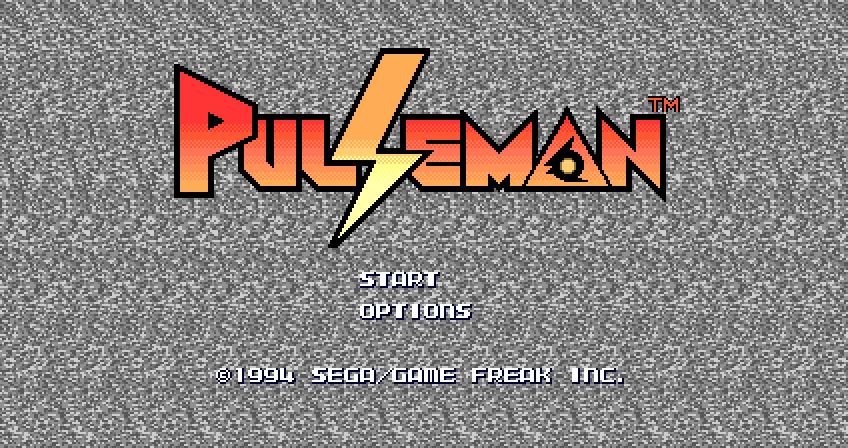
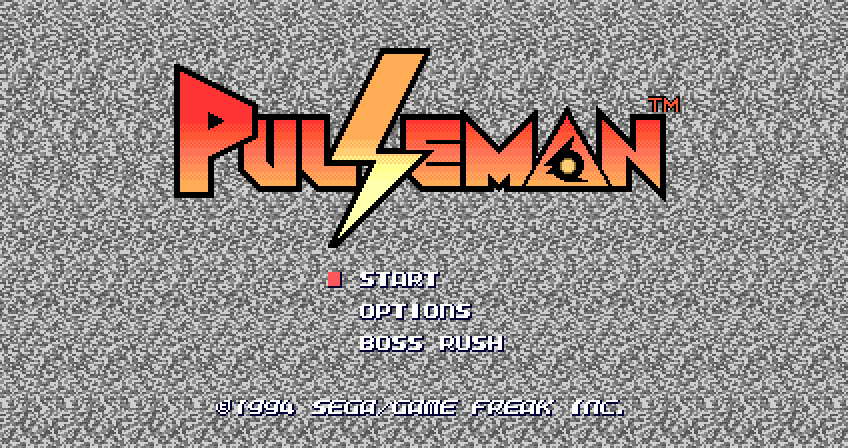
Boss Rush: resultado em tela preta; Esc no continue; README com as novidades
- Boss Rush: o resultado fica numa tela preta só dele, com o título montado por baixo e o
  contador de espera do título parado (a abertura não começa por baixo)
- No continue ($18), Esc/Back não abrem o menu do PC
- Noticiário depois da fase 1 (cena $24) em 4:3 com a moldura: no widescreen o mapa de uma
  tela se repetia nas laterais
- Teste de controle: PM_GAMEPAD_TEST="ms=botão;..." com sequência própria
- README: tradução, abertura, Boss Rush e controles, com capturas novas
- Instalador 1.4.1

diff --git a/runtime/bossrush.c b/runtime/bossrush.c
@@ -216,6 +216,12 @@ void bossrush_frame(void)
         if (scene_now() == SCENE_STAGE && !paused)
             frames++;
     }
+    if (state == BR_RESULT && scene_now() == SCENE_TITLE && (work_ram[0xF802] & 0x80)) {
+        /* o título conta $FFF804 até chamar a abertura: parado enquanto o resultado está na
+         * tela (senão a abertura começava por baixo da tela preta) */
+        work_ram[0xF804] = 0x02;
+        work_ram[0xF805] = 0x58;
+    }
     if (state != BR_OFF || !title_ready())
         return;
     /* item BOSS RUSH na linha 21, com a fonte e os atributos do 'S' de START (linha 17) */
@@ -324,31 +330,32 @@ void bossrush_draw(uint32_t (*fb)[SCREEN_W_MAX], int width, int extra)
         text_center(fb, width, cx, 4, b, 0xFFFFFFFFu);
         return;
     }
-    /* o painel só aparece com o título já montado (antes ainda passa o fim da fase) */
-    if (state == BR_RESULT && scene == SCENE_TITLE && result_frames >= 40) {
-        int w = 200, h = 60, x0 = cx - w / 2, y0 = 118;   /* por cima dos itens do título */
-        for (int y = y0; y < y0 + h; y++)   /* painel sólido com borda (cobre os itens) */
-            for (int x = x0; x < x0 + w; x++)
-                if (x >= 0 && x < width) {
-                    int edge = y == y0 || y == y0 + h - 1 || x == x0 || x == x0 + w - 1;
-                    fb[y][x] = edge ? 0xFF4FB8E0u : 0xFF0C1020u;
-                }
+    if (state == BR_RESULT && scene == SCENE_TITLE) {
+        /* tela preta só para o resultado: o título se monta por baixo e aparece quando ela
+         * some (botão ou 10 s); o texto entra depois do fim da fase escurecer */
+        for (int y = 0; y < SCREEN_H; y++)
+            for (int x = 0; x < width; x++)
+                fb[y][x] = 0xFF000000u;
+        if (result_frames < 40)
+            return;
+        int y0 = 76;
+        text_center(fb, width, cx, y0, "BOSS RUSH", 0xFFB4BECEu);
         format_time(frames, t, sizeof(t));
         if (won) {
-            text_center(fb, width, cx, y0 + 6, T("BOSS RUSH COMPLETO!", "BOSS RUSH CLEARED!", "¡BOSS RUSH COMPLETADO!"), 0xFFFFD84Fu);
+            text_center(fb, width, cx, y0 + 20, T("COMPLETO!", "CLEARED!", "¡COMPLETADO!"), 0xFFFFD84Fu);
             snprintf(b, sizeof(b), "%s %s", T("TEMPO", "TIME", "TIEMPO"), t);
-            text_center(fb, width, cx, y0 + 22, b, 0xFFFFFFFFu);
+            text_center(fb, width, cx, y0 + 40, b, 0xFFFFFFFFu);
         } else {
-            text_center(fb, width, cx, y0 + 6, "GAME OVER", 0xFFFF6A6Au);
+            text_center(fb, width, cx, y0 + 20, "GAME OVER", 0xFFFF6A6Au);
             snprintf(b, sizeof(b), "%s %d/%d  %s", T("CHEFE", "BOSS", "JEFE"), idx + 1, N_BOSSES, t);
-            text_center(fb, width, cx, y0 + 22, b, 0xFFFFFFFFu);
+            text_center(fb, width, cx, y0 + 40, b, 0xFFFFFFFFu);
         }
         if (new_record) {
-            text_center(fb, width, cx, y0 + 38, T("NOVO RECORDE!", "NEW RECORD!", "¡NUEVO RÉCORD!"), 0xFF4FD8FFu);
+            text_center(fb, width, cx, y0 + 60, T("NOVO RECORDE!", "NEW RECORD!", "¡NUEVO RÉCORD!"), 0xFF4FD8FFu);
         } else if (settings.boss_best) {
             format_time(settings.boss_best, t, sizeof(t));
             snprintf(b, sizeof(b), "%s %s", T("RECORDE", "RECORD", "RÉCORD"), t);
-            text_center(fb, width, cx, y0 + 38, b, 0xFFB4BECEu);
+            text_center(fb, width, cx, y0 + 60, b, 0xFFB4BECEu);
         }
         return;
     }

diff --git a/runtime/gamepad.c b/runtime/gamepad.c
@@ -7,6 +7,7 @@
  * também vale A. Start = Start; Back (Select/Share/-) e Guide abrem o menu do PC, como o Esc.
  * Teclado e controle funcionam juntos. */
 #include <stdio.h>
+#include <string.h>
 
 #include "gamepad.h"
 #include "runtime.h"
@@ -162,7 +163,8 @@ void gamepad_test_tick(void)
     }
     if (!init || !joy)
         return;
-    static const struct { Uint32 ms; int button; const char *name; } steps[] = {
+    typedef struct { Uint32 ms; int button; const char *name; } Step;
+    static const Step fixed[] = {
         {4000, SDL_CONTROLLER_BUTTON_A, "A (logos: não faz nada)"},
         {17000, SDL_CONTROLLER_BUTTON_DPAD_DOWN, "baixo (título: OPTIONS)"},
         {18000, SDL_CONTROLLER_BUTTON_DPAD_UP, "cima (título: START)"},
@@ -174,8 +176,40 @@ void gamepad_test_tick(void)
         {44000, SDL_CONTROLLER_BUTTON_BACK, "Back (menu do PC)"},
         {46000, SDL_CONTROLLER_BUTTON_B, "B (fecha o menu)"},
     };
+    /* PM_GAMEPAD_TEST="ms=botão;..." (start, a, b, x, y, back, cima, baixo, esq, dir) troca a
+     * sequência fixa */
+    static Step custom[16];
+    static int n_custom = -1;
+    if (n_custom < 0) {
+        n_custom = 0;
+        static const struct { const char *name; int button; } names[] = {
+            {"start", SDL_CONTROLLER_BUTTON_START}, {"a", SDL_CONTROLLER_BUTTON_A},
+            {"b", SDL_CONTROLLER_BUTTON_B}, {"x", SDL_CONTROLLER_BUTTON_X},
+            {"y", SDL_CONTROLLER_BUTTON_Y}, {"back", SDL_CONTROLLER_BUTTON_BACK},
+            {"cima", SDL_CONTROLLER_BUTTON_DPAD_UP}, {"baixo", SDL_CONTROLLER_BUTTON_DPAD_DOWN},
+            {"esq", SDL_CONTROLLER_BUTTON_DPAD_LEFT}, {"dir", SDL_CONTROLLER_BUTTON_DPAD_RIGHT},
+        };
+        const char *p = SDL_getenv("PM_GAMEPAD_TEST");
+        while (p && *p && n_custom < 16) {
+            unsigned ms;
+            char name[16];
+            if (sscanf(p, "%u=%15[a-z]", &ms, name) == 2)
+                for (size_t k = 0; k < sizeof(names) / sizeof(names[0]); k++)
+                    if (!strcmp(name, names[k].name)) {
+                        custom[n_custom].ms = ms;
+                        custom[n_custom].button = names[k].button;
+                        custom[n_custom].name = names[k].name;
+                        n_custom++;
+                    }
+            p = strchr(p, ';');
+            if (p)
+                p++;
+        }
+    }
+    const Step *steps = n_custom ? custom : fixed;
+    size_t n_steps = n_custom ? (size_t)n_custom : sizeof(fixed) / sizeof(fixed[0]);
     Uint32 now = SDL_GetTicks();
-    for (size_t i = 0; i < sizeof(steps) / sizeof(steps[0]); i++) {
+    for (size_t i = 0; i < n_steps; i++) {
         int down = now >= steps[i].ms && now < steps[i].ms + 150;
         static int was[16];
         if (down != was[i]) {

diff --git a/runtime/main.c b/runtime/main.c
@@ -62,10 +62,11 @@ static void update_widescreen_for_scene(void)
      * continua na tela larga toda. */
     if (scene == 0x00 && !force_wide)
         wide_clip_planes = 1;
-    /* cutscenes: a abertura da fase (cena $28, o símbolo do vilão e as setas que entram
-     * pelas bordas) e o noticiário com a jornalista ($30) são montadas para 320 px; ficam
-     * no formato original, com faixas pretas */
-    wide_pillarbox = (scene == 0x28 || scene == 0x30) && !force_wide;
+    /* cutscenes: o noticiário depois da fase 1 ($24, um mapa de uma tela que se repete nas
+     * laterais), a abertura da fase ($28, o símbolo do vilão e as setas que entram pelas
+     * bordas) e o noticiário do final ($30) são montadas para 320 px; ficam no formato
+     * original, com a moldura */
+    wide_pillarbox = (scene == 0x24 || scene == 0x28 || scene == 0x30) && !force_wide;
     map_stream_extra = stage ? 4 : 0;     /* carrega 64 px a mais de mapa de cada lado */
     hud_shift = stage ? 52 : 0;           /* energia/vidas: 16 px da borda esquerda */
     hud_shift_right = stage ? 84 : 0;     /* pontuação: 16 px da borda direita */
@@ -685,7 +686,8 @@ int main(int argc, char **argv)
                         continue;
                     }
                     if (!menu_is_open()) {
-                        if (key == SDLK_ESCAPE && !repeat) {
+                        /* no continue ($18) o Esc/Back não abre o menu do PC */
+                        if (key == SDLK_ESCAPE && !repeat && (work_ram[0xF803] & 0x7C) != 0x18) {
                             if (game_in_stage() && !game_paused()) {
                                 inject_start = 5;   /* pausa o jogo; o menu abre junto com a pausa */
                             } else {

diff --git a/README.md b/README.md
@@ -6,7 +6,7 @@
 
 <p align="center">
   <b>O clássico de 1994 da Game Freak — a mesma equipe de Pokémon — rodando nativo no Windows.</b><br>
-  Widescreen, 60 fps sem lentidão, 3 arquivos de save, filtros de TV e menus em português, inglês e espanhol.
+  Widescreen, 60 fps sem lentidão, jogo traduzido, Boss Rush, suporte a controles, 3 arquivos de save e filtros de TV.
 </p>
 
 <p align="center">
@@ -49,6 +49,17 @@
 A área central fica idêntica ao jogo original, pixel a pixel; as colunas extras são carregadas
 do próprio mapa do jogo. O modo original continua disponível no menu.
 </details>
+
+### Novidades
+
+| | |
+|:---:|:---:|
+| <img src="docs/images/news_pt.png" alt="Noticiário traduzido" width="420"> | <img src="docs/images/story_pt.png" alt="História da abertura traduzida" width="420"> |
+| As legendas em japonês traduzidas, e as telas em 4:3 com a própria cena desfocada nas laterais | A história da abertura, agora em destaque (Start nas telas de logo) |
+| <img src="docs/images/title_bossrush.png" alt="Boss Rush na tela de título" width="420"> | <img src="docs/images/bossrush_fight.png" alt="Luta do Boss Rush com cronômetro" width="420"> |
+| Boss Rush na tela de título | Os 7 chefes em sequência, com uma vida só e cronômetro |
+| <img src="docs/images/select_pt.png" alt="Seleção de fases traduzida" width="420"> | <img src="docs/images/ending_frame.png" alt="Noticiário do final com moldura" width="420"> |
+| A seleção de fases traduzida | O noticiário do final, em 4:3 com a moldura |
 
 ### Menus feitos para esta versão
 
@@ -98,9 +109,10 @@ O instalador não pede administrador (instala em `%LOCALAPPDATA%\Programs\Pulsem
 | 📺 **Filtros** | Nítido, suave, pixel suave, scanlines, TV e TV curva. |
 | 🖼 **Moldura** | Telas em 4:3 (o modo original, o noticiário, o mapa-múndi...) ganham laterais com a própria cena desfocada, ou faixas pretas. |
 | 🧩 **Sprites sem limite** | Menos sprites piscando quando há muitos na mesma linha (opcional). |
-| 🎬 **Abertura em destaque** | Start nas telas de logo mostra a história do jogo, que antes só aparecia deixando o título parado. Para pular, segure um botão; no fim, vai direto para o título. |
-| ⚔ **Boss Rush** | Na tela de título: os 7 chefes em sequência, com uma vida só, cronômetro e recorde. |
-| 🌎 **3 idiomas** | Menus em português, inglês e espanhol, e os textos do jogo traduzidos: as legendas em japonês (abertura, noticiários, seleção de fases) e os textos em inglês. |
+| 🌎 **Jogo traduzido** | Menus em português, inglês e espanhol, e o texto do jogo no idioma escolhido: as legendas em japonês (história da abertura, noticiários, seleção de fases) e os textos em inglês (título, opções, terminal, créditos). |
+| 🎬 **Abertura em destaque** | Start nas telas de logo mostra a história do jogo, que antes só aparecia deixando o título parado, com a música da fase 2. Para pular, segure um botão; no fim, vai direto para o título. |
+| ⚔ **Boss Rush** | Na tela de título: os 7 chefes em sequência, sem Stage Clear entre eles, com uma vida só, cronômetro e recorde. |
+| 🎮 **Controles** | Xbox, PlayStation, Switch Pro, 8BitDo e genéricos, sem configurar, inclusive nos menus. |
 | 📦 **Instalador moderno** | Confere a ROM, cria atalhos, registra no Windows e desinstala limpo. |
 
 ### 🎮 Controles
@@ -193,7 +205,12 @@ compara o resultado.
 
 A **versão distribuída** (a do instalador) não tem nada gerado a partir da ROM: o código do jogo
 roda num interpretador de 68000 direto da ROM do jogador, e as melhorias deste projeto (widescreen,
-menus, saves, filtros) entram por cima. Partindo do mesmo save, as duas versões ficam idênticas.
+menus, saves, filtros, Boss Rush) entram por cima. Partindo do mesmo save, as duas versões ficam
+idênticas.
+
+A tradução também não mexe na ROM: as legendas em japonês são imagens prontas, então o programa
+reconhece cada uma pelo conteúdo dos sprites, esconde a original e escreve a tradução no lugar
+(detalhes e todos os textos em [**docs/TRADUCAO.md**](docs/TRADUCAO.md)).
 
 Detalhes, formato dos arquivos e opções de teste: [**docs/TECNICO.md**](docs/TECNICO.md).
 
@@ -258,7 +275,10 @@ arquivo do jogo é distribuído aqui, e este projeto não fornece nem indica ond
 **Pulseman PC** is a native Windows port of *Pulseman* (1994, Mega Drive), developed by
 **Game Freak** (the studio behind Pokémon) and published by SEGA. It adds 16:9 widescreen,
 60 fps with no slowdown, 3 save files, CRT/scanline filters and menus in Portuguese, English and
-Spanish, and ships with a modern installer.
+Spanish. The Japanese captions (opening story, news reports, stage select) are translated into
+the chosen language, the opening story can be watched from the logo screens, a **Boss Rush** mode
+(all 7 bosses, one life, timer and best time) is on the title screen, and Xbox/PlayStation/Switch
+controllers work out of the box. It ships with a modern installer.
 
 **No game files are included.** You need your own original, unmodified **Japanese Pulseman ROM**
 (SHA-1 `5fd76a5f80e4684b5f9d445ddb893679985684e6`), dumped from a cartridge you own.

diff --git a/docs/TECNICO.md b/docs/TECNICO.md
@@ -27,7 +27,8 @@ SDL (`runtime/gamepad.c`): direcional/analógico esquerdo, X/A/B (esquerda/baixo
 como no controle de 3 botões, Y = A, Start = Start, Back/Guide = Esc; nos menus do PC os botões
 viram teclas (direcional = setas, A/Start = Enter, B = Esc). Conectar e desconectar com o jogo
 aberto funciona; `gamecontrollerdb.txt` ao lado do executável acrescenta mapeamentos. Depois de
-fechar o menu, teclado e controle só voltam a valer soltos. Teste sem controle físico:
+fechar o menu, teclado e controle só voltam a valer soltos. No continue ($18) Esc/Back não
+abrem o menu do PC. Teste sem controle físico:
 `PM_GAMEPAD_TEST=1` (com janela) conecta um controle virtual do SDL e aperta botões em tempos
 fixos (a janela pode abrir sem foco, então o teste deixa o SDL ler controles fora de foco).
 
@@ -190,7 +191,9 @@ só, a energia passando de um chefe ao outro, cronômetro e recorde.
   `bossrush_no_clear_map`). O trecho não era descoberto pelo recompilador (rodava no
   interpretador, onde o IMM não vale): $21A8C entrou em `recomp/extra_entries.txt`.
 - Vidas extras (`$FFFD44`, BCD) ficam em zero: morrer leva ao continue ($18), que vira o fim da
-  corrida (título com "game over", o chefe e o tempo). A energia (`$FFFD46`) segue a do jogo,
+  corrida. O resultado ("game over" com o chefe, ou o tempo final, e o recorde) fica numa tela
+  preta por cima do título, que se monta por baixo com o contador de espera (`$FFF804`)
+  parado; some com um botão ou em 10 s. A energia (`$FFFD46`) segue a do jogo,
   que não a enche entre mapas.
 - Cronômetro: quadros de fase (60 por segundo), parado na pausa do jogo, no alto da tela. O
   recorde fica no .ini (`boss_rush_recorde`, em quadros; os testes sem janela não gravam).
@@ -292,8 +295,9 @@ por padrão, já que compara com o jogo original.
   lados (IMM $18C82 e $8DD2, `hook_map_edit_column` em $8DE0 desfaz o deslocamento), cobrindo
   o anel de 32 metatiles do plano.
 - Cutscenes montadas para 320 px ficam no formato original, com faixas pretas
-  (`update_widescreen_for_scene` em `main.c`): a abertura da fase (cena $28, o símbolo do
-  vilão e as setas que entram pelas bordas) e o noticiário com a jornalista ($30).
+  (`update_widescreen_for_scene` em `main.c`): o noticiário depois da fase 1 (cena $24, um
+  mapa de uma tela, que no widescreen se repetia nas laterais), a abertura da fase ($28, o
+  símbolo do vilão e as setas que entram pelas bordas) e o noticiário do final ($30).
 - Moldura (menu MOLDURA, `moldura_preta` no .ini): toda tela em 4:3 ganha laterais. São as
   cenas acima, as telas fora de fase cujas colunas extras saem de uma cor só (mapa-múndi,
   seleção de fases, opções, texto da abertura; `sides_empty` em `main.c`) e o modo original
